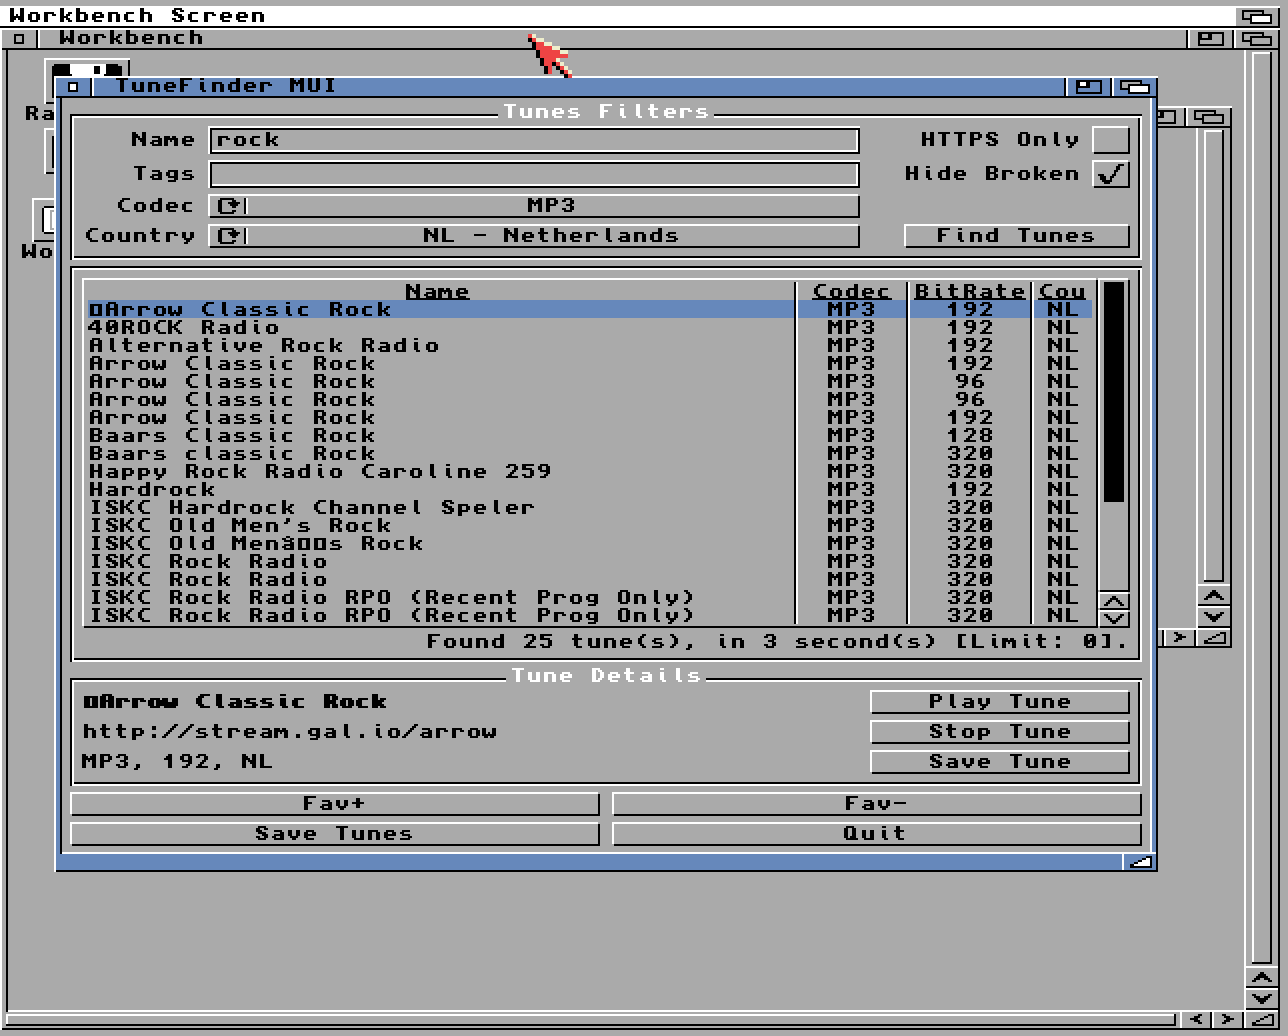
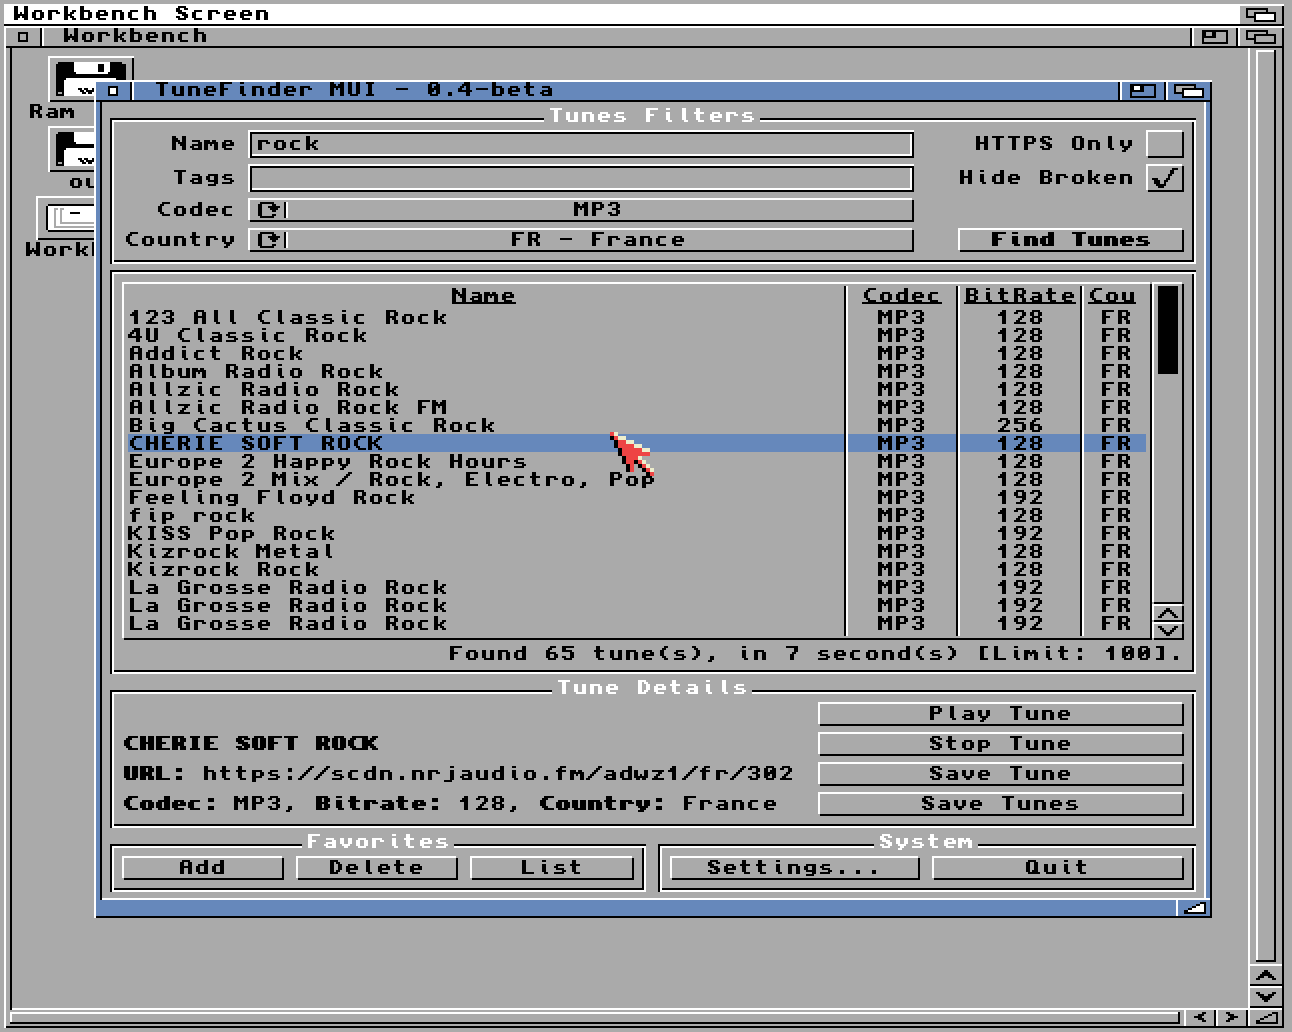
Reorganize interface layout (#8)
- Improved Tune Details arrangement with aligned text and buttons
- Grouped Favorites related buttons (Fav+, Fav-, Favorites)
- Added System group for Settings and Quit
- Moved Save buttons to logical positions in Tune Details
- Added spacing for better visual organization

diff --git a/src/app.c b/src/app.c
@@ -244,6 +244,7 @@ BOOL APP_Tune_Details_Init(void) {
   set(objApp->BTN_Tune_Play, MUIA_Disabled, TRUE);
   set(objApp->BTN_Tune_Stop, MUIA_Disabled, TRUE);
   set(objApp->BTN_Tune_Save, MUIA_Disabled, TRUE);
+  set(objApp->BTN_Save, MUIA_Disabled, TRUE);
 
   return TRUE;
 }
@@ -330,6 +331,8 @@ BOOL APP_Tune_Active(void) {
       set(objApp->BTN_Tune_Play, MUIA_Disabled, FALSE);
       set(objApp->BTN_Tune_Stop, MUIA_Disabled, FALSE);
       set(objApp->BTN_Tune_Save, MUIA_Disabled, FALSE);
+      set(objApp->BTN_Save, MUIA_Disabled, FALSE);
+
     }
   }
 
@@ -757,7 +760,7 @@ VOID CreateWindowMain(struct ObjApp *obj) {
   // Controls
 
   obj->BTN_Find = SimpleButton(MakeBoldText(GetTFString(MSG_ACTION_SEARCH)));
-  obj->BTN_Favorites = SimpleButton(GetTFString(MSG_STATE_FAVORITES));
+  obj->BTN_Favorites = SimpleButton(GetTFString(MSG_STATE_FAVORITES_LIST));
   obj->BTN_Fav_Add = SimpleButton(GetTFString(MSG_ACTION_FAV_ADD)),
   obj->BTN_Fav_Remove = SimpleButton(GetTFString(MSG_ACTION_FAV_REMOVE)),
   obj->BTN_Save = SimpleButton(GetTFString(MSG_ACTION_SAVE_ALL));   // "Save Tunes"
@@ -855,23 +858,40 @@ group1 = GroupObject,
   MUIA_List_Title, TRUE, MUIA_List_DisplayHook, &DisplayHook,
   End, End, Child,
   obj->LAB_Tune_Result, End, End;
-
-  group3 = GroupObject, MUIA_Frame, MUIV_Frame_Group, MUIA_FrameTitle,
-  "Tune Details", MUIA_Group_Columns, 2, Child, obj->TXT_Tune_Name, Child,
-  obj->BTN_Tune_Play, Child, obj->TXT_Tune_URL, Child, obj->BTN_Tune_Stop,
-  Child, obj->TXT_Tune_Details, Child, obj->BTN_Tune_Save, End;
-
-group4 = GroupObject,
-   MUIA_Group_Horiz, TRUE,           
-   MUIA_Group_SameWidth, TRUE,
-    Child, obj->BTN_Fav_Add,
-    Child, obj->BTN_Fav_Remove,
-    Child, obj->BTN_Favorites,
+  
+group3 = GroupObject, 
+    MUIA_Frame, MUIV_Frame_Group, 
+    MUIA_FrameTitle, "Tune Details", 
+    MUIA_Group_Columns, 2, 
+    Child, HSpace(0),             // Empty space
+    Child, obj->BTN_Tune_Play,    // Play button
+    Child, obj->TXT_Tune_Name,
+    Child, obj->BTN_Tune_Stop,    // Stop button
+    Child, obj->TXT_Tune_URL,     // URL
+    Child, obj->BTN_Tune_Save,    // Save single tune
+    Child, obj->TXT_Tune_Details, // Details
     Child, obj->BTN_Save,
-    Child, obj->BTN_Settings,
-    Child, obj->BTN_Quit,
-   End;
+    End;
 
+// Bottom groups
+group4 = HGroup,
+    MUIA_Group_SameWidth, TRUE,
+    Child, VGroup,
+        MUIA_Frame, MUIV_Frame_Group,
+        MUIA_FrameTitle, "Favorites",
+        MUIA_Group_Horiz, TRUE,
+        Child, obj->BTN_Fav_Add,
+        Child, obj->BTN_Fav_Remove,
+        Child, obj->BTN_Favorites,
+        End,
+    Child, VGroup,
+        MUIA_Frame, MUIV_Frame_Group,
+        MUIA_FrameTitle, "System",
+        MUIA_Group_Horiz, TRUE,
+        Child, obj->BTN_Settings,
+        Child, obj->BTN_Quit,
+        End,
+    End;
   group0 = GroupObject, MUIA_Group_Columns, 1, MUIA_Group_SameWidth, TRUE,
   Child, group1, Child, group2, Child, group3, Child, group4, End;
 

diff --git a/src/locale.c b/src/locale.c
@@ -35,8 +35,8 @@ static const char *built_in_strings[] = {
     "Quit",         // 14
     "Save Tune",    // 15
     "Stop Tune",    // 16
-    "Fav+",         // 17
-    "Fav-",         // 18
+    "Add",         // 17
+    "Delete",         // 18
     NULL,           // 19
 
     // GUI States (20-28)
@@ -49,7 +49,7 @@ static const char *built_in_strings[] = {
     "Searching...", // 26
     "Favorites",    // 27
     "Iconify",      // 28
-    NULL,           // 29
+    "List",           // 29
 
     // Options and Settings (30-37)
     "API Host",     // 30

diff --git a/include/main.h b/include/main.h
@@ -31,8 +31,8 @@
 
 // Application defines
 #define APP_NAME "TuneFinder MUI"
-#define APP_DATE "27.12.2024"
-#define APP_VERSION "0.3-beta"
+#define APP_DATE "01.01.2025"
+#define APP_VERSION "0.4-beta"
 #define APP_VERSTRING "$VER: " APP_NAME " " APP_VERSION " (" APP_DATE ")"
 #define APP_AUTHORS "Coding: Marcin Spoczynski\nGUI Design: Philippe Carpentier\nIcons: Thomas Blatt\n"
 #define APP_COPYRIGHT "Free to use and distribute"

diff --git a/include/locale.h b/include/locale.h
@@ -36,7 +36,7 @@ enum {
     MSG_STATE_SEARCHING,
     MSG_STATE_FAVORITES,
     MSG_STATE_ICONIFY,
-
+    MSG_STATE_FAVORITES_LIST,
     // Options and Settings (30-37)
     MSG_OPTION_API_HOST = 30,
     MSG_OPTION_API_PORT,
